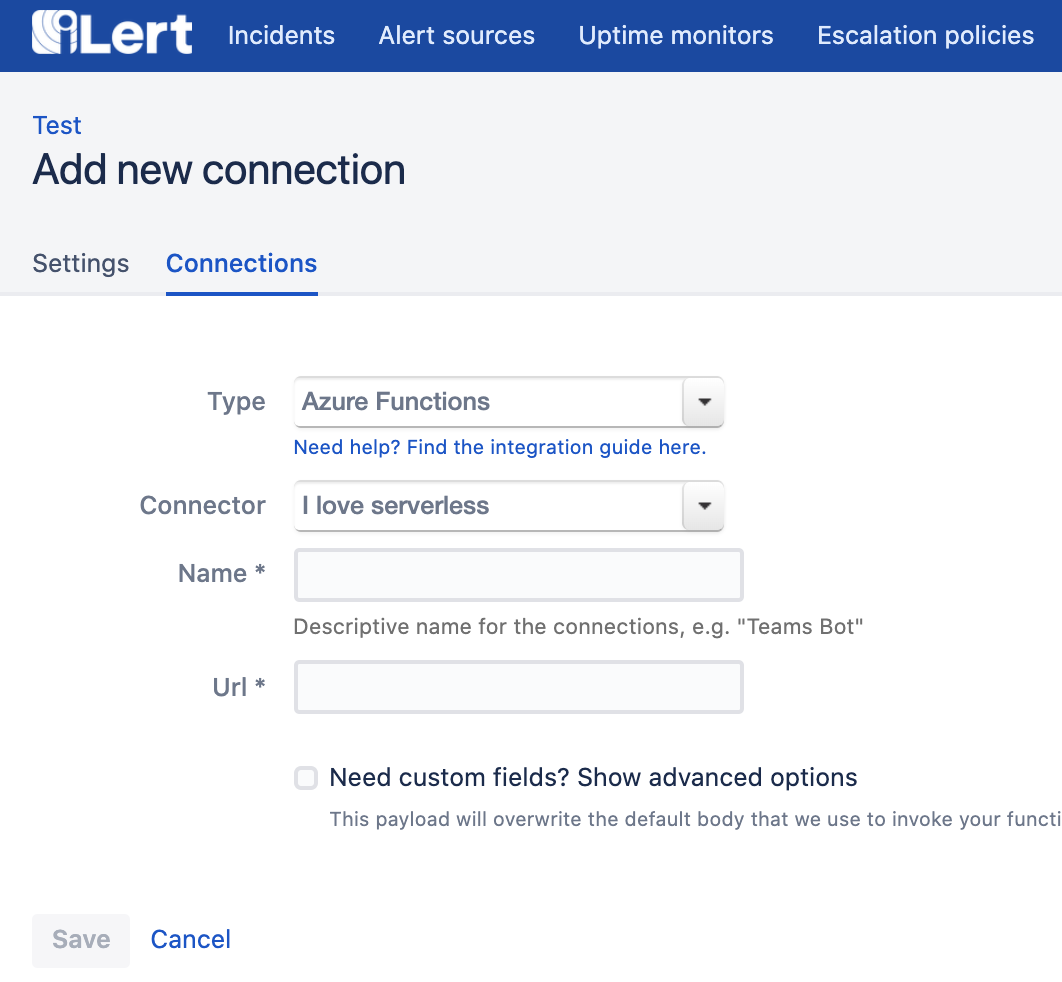
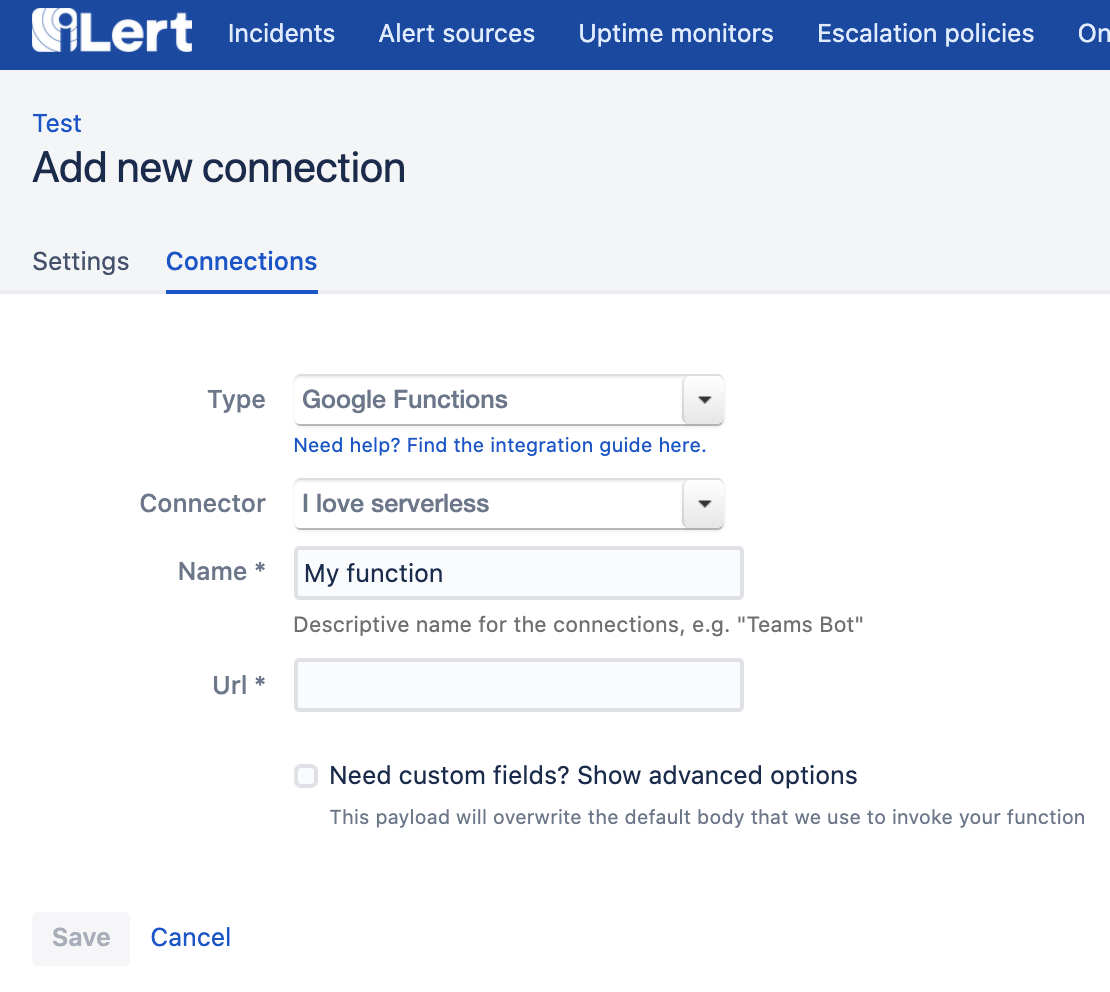
GitBook: [master] 7 pages and 25 assets modified

diff --git a/integrations/github/outbound-issue.md b/integrations/github/outbound-issue.md
@@ -11,18 +11,46 @@ weight: 1
 ## In Github: Create iLert user and create API token <a id="github-preparation"></a>
 
 1. Optional: Create a dedicated iLert user in Github. This has the advantage that you can distinguish the Github tickets created by iLert.
+
 2. Go to **Profile Settings** --&gt; **Developer settings** --&gt; **Personal access tokens**, and click **Generate new token**.
+
+![](../../.gitbook/assets/ghoi1.png)
+
 3. Give it a name and select **Repo Scope** for the token
-4. Click on **Create**. Keep your API key for later, as it is needed in iLert..
+
+![](../../.gitbook/assets/ghoi2.png)
+
+4. Click on **Create**. Keep your API key for later, as it is needed in iLert.
+
+![](../../.gitbook/assets/ghoi3.png)
+
+![](../../.gitbook/assets/ghoi4.png)
 
 ## In iLert: Create a Github Connector and link to an alert source <a id="create-alarm-source"></a>
 
 1. Click on the gear icon → **Connectors**
+
+![](../../.gitbook/assets/ghoi5.png)
+
 2. Click on **Add Connector**
+
+![](../../.gitbook/assets/ghoi6.png)
+
 3. Select **Github** as **type** and fill in all fields. Enter a name and the API key from above.
+
+![](../../.gitbook/assets/ghoi7.png)
+
 4. **Go to** the alert sources tab and open the alert source whose incidents you want to publish in Github. Click on **Connections → Add New Connection**.
+
+![](../../.gitbook/assets/ghoi8.png)
+
 5. Select **Github** as the **type** then select the connector created in step 3 and fill in all fields. In the **Owner** and the **Repository** fields specify the owner and repository of the Github project where the iLert incidents should be published as Github Issue.
+
+![](../../.gitbook/assets/ghoi9.png)
+
 6. Finished! You can now test the connection by clicking on the button **Test this connection**. Then a test issue will be published in the respective Github project.
+
+![](../../.gitbook/assets/ghoi10.png)
 
 ## FAQ <a id="faq"></a>
 

diff --git a/integrations/github/inbound-issue.md b/integrations/github/inbound-issue.md
@@ -13,17 +13,33 @@ With the iLert Github Issue integration, you can create incidents in iLert based
 ## In iLert: Create a Github alert source <a id="create-alert-source"></a>
 
 1. Go to the "Alert sources" tab and click "Create new alert source"
+
 2. Enter a name and select your desired escalation policy. Select "Github" as the **Integration Type** and click **Save**.
+
+![](../../.gitbook/assets/ghii1.png)
+
 3. On the next page, a Webhook URL is generated. You will need this URL below when setting up the hook in Github.
+
+![](../../.gitbook/assets/ghii2.png)
 
 ## In Github <a id="in-github"></a>
 
 ### Create a Repository Webhook
 
 1. Go to your Github repository and then to **Settings** --&gt; **Webhooks** and click on **Add webhook** to add a new webhook \(`https://github.com/<org>/<repo>/settings/hooks`\)
+
+![](../../.gitbook/assets/ghii3.png)
+
 2. In the **Payload URL** section, set the **Webhook URL** that you generated in iLert
+
 3. In the **Content type** section, set the **application/json**
+
+![](../../.gitbook/assets/ghii4.png)
+
 4. In the **Which events would you like to trigger this webhook?** section, change it to **Let me select individual events** and select the **Check runs** events
+
+![](../../.gitbook/assets/ghii5.png)
+
 5. Click **Save**
 
 ## FAQ <a id="faq"></a>

diff --git a/integrations/github/inbound-check-run-actions.md b/integrations/github/inbound-check-run-actions.md
@@ -15,17 +15,31 @@ With the iLert Github Check Run integration, you can add incidents in iLert base
 ## In iLert: Create Github alert source <a id="create-alert-source"></a>
 
 1. Go to the "Alert sources" tab and click "Create new alert source"
+
 2. Enter a name and select your desired escalation policy. Select "Github" as **Integration Type** and click **Save**.
+
+![](../../.gitbook/assets/ghch1.png)
+
 3. On the next page, a Webhook URL is generated. You will need this URL below when setting up in Github.
+
+![](../../.gitbook/assets/ghch2.png)
 
 ## In Github <a id="in-github"></a>
 
 ### Create a Repository Webhook
 
 1. Go to your Github repository and then to **Settings** --&gt; **Webhooks** and click on **Add webhook** to add a new webhook \(`https://github.com/<org>/<repo>/settings/hooks`\)
+
+![](../../.gitbook/assets/ghch3.png)
+
 2. In the **Payload URL** section, set it to the **Webhook URL** generated in iLert
+
 3. In the **Content type** section, change to **application/json**
+
 4. In the **Which events would you like to trigger this webhook?** section, change it to **Let me select individual events** and select the **Check runs** events
+
+![](../../.gitbook/assets/ghch4.png)
+
 5. Click **Save**
 
 ## FAQ <a id="faq"></a>

diff --git a/integrations/azure-functions.md b/integrations/azure-functions.md
@@ -16,7 +16,7 @@ Beforehand make sure that you have created an Azure Function function in your Mi
 
 Go to the connectors tab of your account.
 
-![](../.gitbook/assets/s1.png)
+![](../.gitbook/assets/s1%20%281%29.png)
 
 And create a new connector. Choose Azure Function as type \(you may add the additional `Authorization` parameter as stated in the beginning of this doc.\)
 
@@ -28,11 +28,11 @@ Click on save to save the connector.
 
 Visit the alert source \(view\) whose incidents should trigger your serverless function. Navigate to the connections tab and create a new connection.
 
-![](../.gitbook/assets/s3%20%281%29.png)
+![](../.gitbook/assets/s3%20%282%29.png)
 
 Choose Azure Function as type and select your previously created connector. Enter a name and the url targeting your public function. You may also customize the HTTP request body that is used to invoke your function.
 
-![](../.gitbook/assets/s4.png)
+![](../.gitbook/assets/s4%20%281%29.png)
 
 Click on save to create the connection, you may test the connection in the following screen.
 

diff --git a/integrations/gcf.md b/integrations/gcf.md
@@ -18,7 +18,11 @@ Beforehand make sure that you have created an Google Cloud Function function in 
 
 Go to the connectors tab of your account.
 
+![](../.gitbook/assets/s1.png)
+
 And create a new connector. Choose Google Cloud Function as type \(you may add the additional `Authorization` parameter as stated in the beginning of this doc.\)
+
+![](../.gitbook/assets/s2%20%282%29.png)
 
 Click on save to save the connector.
 
@@ -26,7 +30,11 @@ Click on save to save the connector.
 
 Visit the alert source \(view\) whose incidents should trigger your serverless function. Navigate to the connections tab and create a new connection.
 
+![](../.gitbook/assets/s3%20%281%29.png)
+
 Choose Google Cloud Function as type and select your previously created connector. Enter a name and the url targeting your public function. You may also customize the HTTP request body that is used to invoke your function.
+
+![](../.gitbook/assets/s4.png)
 
 Click on save to create the connection, you may test the connection in the following screen.
 

diff --git a/integrations/aws-lambda.md b/integrations/aws-lambda.md
@@ -16,7 +16,7 @@ Beforehand make sure that you have created an AWS lambda function in your AWS pr
 
 Go to the connectors tab of your account.
 
-![](../.gitbook/assets/s1%20%281%29.png)
+![](../.gitbook/assets/s1%20%282%29.png)
 
 And create a new connector. Choose AWS lambda as type \(you may add the additional `Authorization` parameter as stated in the beginning of this doc.\)
 
@@ -32,7 +32,7 @@ Visit the alert source \(view\) whose incidents should trigger your serverless f
 
 Choose AWS lambda as type and select your previously created connector. Enter a name and the url targeting your public function. You may also customize the HTTP request body that is used to invoke your function.
 
-![](../.gitbook/assets/s4%20%281%29.png)
+![](../.gitbook/assets/s4%20%282%29.png)
 
 Click on save to create the connection, you may test the connection in the following screen.
 

diff --git a/SUMMARY.md b/SUMMARY.md
@@ -22,9 +22,9 @@
 * [E-mail Integration](integrations/email.md)
 * [Google Cloud Function Integration](integrations/gcf.md)
 * [Github Integration](integrations/github/README.md)
-  * [Github Outbound Issue Integration](integrations/github/outbound-issue.md)
-  * [Github Inbound Issue Integration](integrations/github/inbound-issue.md)
   * [Github Inbound Check Run \(Actions\) Integration](integrations/github/inbound-check-run-actions.md)
+  * [Github Inbound Issue Integration](integrations/github/inbound-issue.md)
+  * [Github Outbound Issue Integration](integrations/github/outbound-issue.md)
 * [Google Stackdriver Integration](integrations/google-stackdriver.md)
 * [Grafana Integration](integrations/grafana.md)
 * [Icinga Integration](integrations/icinga.md)
